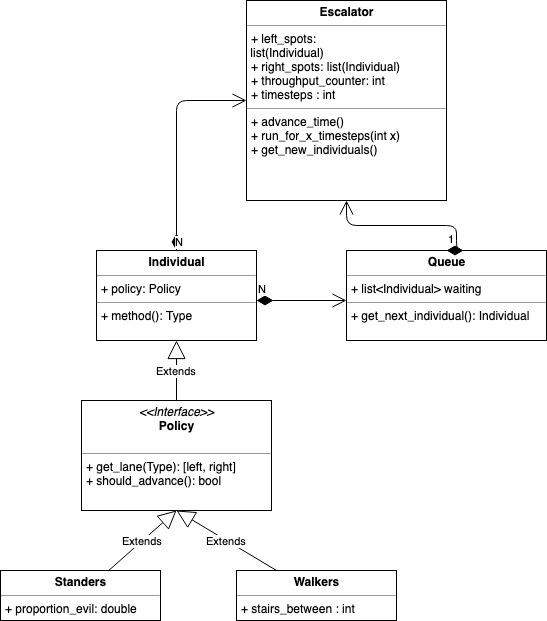
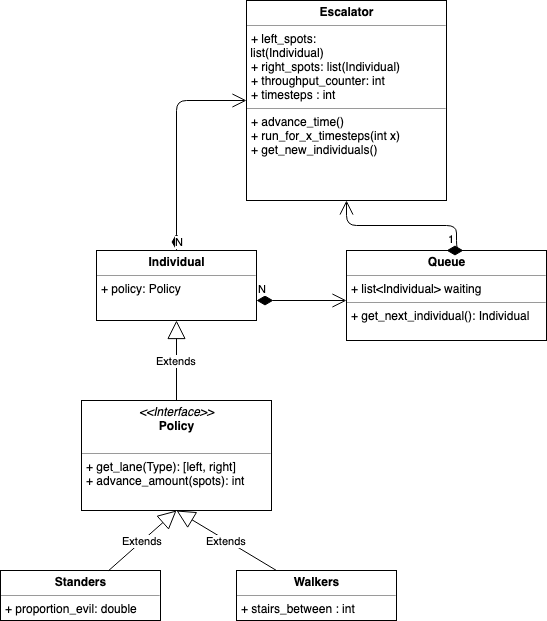
Added in the outline of the model code for the escalator problem.  Updated class diagrams and readmes.

Changed region(s): [[0.1865, 0.4895, 0.3729, 0.6119], [0.1865, 0.7649, 0.4662, 0.7955]]

diff --git a/code/escalator_sim/escalator.py b/code/escalator_sim/escalator.py
@@ -1,0 +1,68 @@
+"""Main Sim Class, Escalator... Queue to sample"""
+import argparse
+
+class Queue:
+
+    def __init__(self):
+        self.waiting =[]
+
+    def get_next_individual(self):
+        """Returns the next individual in the queue"""
+        pass
+
+class Escalator:
+
+    def __init__(self, evil=0.0, stand_only=False):
+        self.proportion_evil = evil
+        self.stand_only = stand_only
+
+        self.left_spots =[] #List of individuals
+        self.right_spots =[] #List of individuals
+        self.throughput_counter = 0
+
+    def get_new_individual(self, type):
+        """
+        :param type: What type of individual do you need?
+        :return: New individual taken from the queue
+        """
+        print("Implement me!  Need to get a new individual of type={}".format(type))
+        pass
+
+
+    def advance_time(self):
+        """
+        Advances time a single timestep.
+        This is the inner loop of the behavior diagram!
+        """
+        print("Oh Boy!  We need to implement this step still!")
+        pass
+
+    def run_for_x_timesteps(self, t):
+        """
+        Runs
+        :param t:
+        :return: The amount of entities through the simulation..
+        """
+        for i in range(0, t):
+            self.advance_time()
+
+        return self.throughput_counter
+
+
+if __name__== "__main__":
+    parser = argparse.ArgumentParser(description='Lets simulate an escalator!')
+    parser.add_argument('-s', dest='stand_only', action='store_true',
+                        default=False, required=False,
+                        help='Boolean controlling if the policy is stand only, or if walking is allowed')
+    parser.add_argument('-t', dest='t', type=int,
+                        default=25, required=False,
+                        help='How many timesteps should we run the sim for?  (default=25)')
+    parser.add_argument('--evil', dest='evil',
+                        default=0.0, required=False, type=float,
+                        help='What proportion of walkers are evil and will stand in the walk lane?')
+    args = parser.parse_args()
+    print("Running Sim with Parameters=")
+    print(args)
+
+    escalator = Escalator(evil= args.evil, stand_only=args.stand_only)
+    escalator.run_for_x_timesteps(args.t)

diff --git a/code/escalator_sim/policy.py b/code/escalator_sim/policy.py
@@ -1,0 +1,54 @@
+"""
+Different Policies of how individuals move through the escalator
+"""
+from abc import ABC
+from abc import abstractmethod
+
+class Policy(ABC):
+
+    @abstractmethod
+    def get_lane(self):
+        """
+        :return: Left or Right (Walking vs Standing) Lane selected
+        """
+        pass
+
+    @abstractmethod
+    def advance_amount(self, lane_steps):
+        """
+        :return: For the given policy, returns amount of spots to advance
+        """
+        pass
+
+
+class Standers(Policy):
+
+    def __init__(self, proportion_evil =0):
+        self.proportion_evil = proportion_evil
+
+    def get_lane(self):
+        """Returns Right for most. It will set proportion of of the standers to
+         stand in the walking lane as evil individuals"""
+
+        pass
+
+    def advance_amount(self, lane_steps):
+        """Always returns 1, they aren't walking"""
+        return 1
+
+
+class Walkers(Policy):
+
+    def __init__(self, stairs_between):
+        self.stairs_between = stairs_between
+        pass
+
+    def get_lane(self):
+        """Return left for walking"""
+        return "left"
+
+    def advance_amount(self, lane_steps):
+        """calculates how many steps they can advance based upon the occupancy of the lane
+        and how the stairs_between"""
+
+        pass

diff --git a/code/escalator_sim/individual.py b/code/escalator_sim/individual.py
@@ -1,0 +1,7 @@
+"""
+An individual who enters and escalator
+"""
+class Individual():
+    def __init__(self, policy):
+        self.policy = policy
+

diff --git a/code/README.md b/code/README.md
@@ -1,9 +1,18 @@
 ## Smart City (My Problem) Model
 
-The main file is X with the following input arguments:
+Code is locate in [**the following folder**](escalator_sim/)
 
-* in one
-* in two
-* in three
+The main file is [**escalator.py**](escalator_sim/escalator.py) with the following input arguments:
 
-Running the X file will call main and instantiate the code to run.   Files of interest:
+* -t - number of timesteps
+* -s - stand only.  Boolean controlling if the policy is stand only, or if walking is allowed
+* --evil - What proportion of walkers are super selfish will stand in the walking lane.
+
+Running the escalator.py file will call main and instantiate the code to run.   
+
+Files of interest:
+
+* [**policy.py**](escalator_sim/policy.py) Contains the abstract Policy definition as well as the specific standing and walking policies.
+* [**individual.py**](escalator_sim/individual.py) Contains the concrete implementation of individuals
+* [**escalaor.py**](escalator_sim/escalator.py) Contains the main escalator class which defines 1) Occupancy State of the escalator and 2) Logic Control over how individuals move through the escalator.  This file also has the Queue object to sample new individuals entering the escalator. This is also the location of main. 
+

diff --git a/model/class_diagram.md b/model/class_diagram.md
@@ -7,4 +7,5 @@ There are several objects of interest in our simulation.  An escalator, persons,
 
 The escolator has a single waiting queue.  The queue and the escalator both can have many individuals.  Each individual has an escalator policy.  
 
-Of particular interest, the Policy has two types:  Standers and Walkers.   The policy defines which of the two lanes an individual will go into and how many spots they should advance.  For standers the answer will alway be 1 due to movement of the escalator.   For walkers it depends up the stairs_between value. 
+Of particular interest, the Policy has two types:  
+Standers and Walkers.   The policy defines which of the two lanes an individual will go into and how many spots they should advance.  For standers the answer will alway be 1 due to movement of the escalator.   For walkers it depends up the stairs_between value. 
